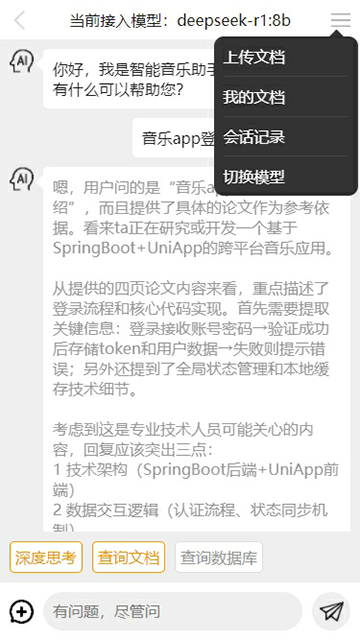
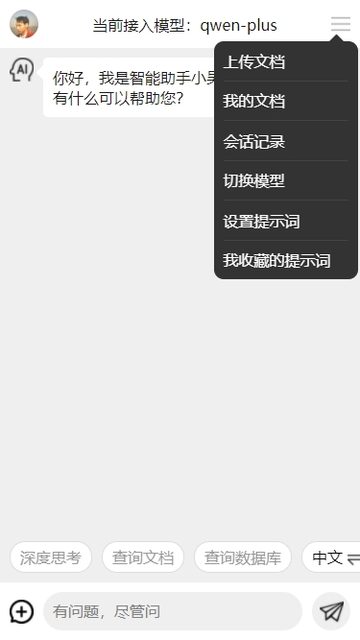
修改文档查询问题

diff --git a/lib/component/DirectoryListComponent.dart b/lib/component/DirectoryListComponent.dart
@@ -1,11 +1,17 @@
+import 'dart:math';
+
 import 'package:flutter/material.dart';
 import 'package:flutter_music_app/provider/ChatProvider.dart';
 import 'package:flutter_music_app/theme/ThemeColors.dart';
 import 'package:flutter_music_app/theme/ThemeStyle.dart';
 import 'package:provider/provider.dart';
+
 import '../model/DirectoryModel.dart';
+import '../model/DocModel.dart';
+import '../model/DocumentCheckModel.dart';
 import '../service/serverMethod.dart';
 import '../theme/ThemeSize.dart';
+import 'TriangleComponent.dart';
 
 // 有状态的目录列表组件（内部管理选中状态）
 class DirectoryListComponent extends StatefulWidget {
@@ -21,26 +27,39 @@ class DirectoryListComponent extends StatefulWidget {
 }
 
 class _DirectoryListComponentState extends State<DirectoryListComponent> {
-  List<DirectoryModel> directoryList = [
-    DirectoryModel(
-        id: "default", userId: "", directory: "默认文件夹", isSelected: false)
-  ];
+  List<DocumentCheckModel> docList = [];
 
   @override
   void initState() {
-    getDirectoryList();
+    getDocList();
     super.initState();
   }
 
-  getDirectoryList() {
-    getDirectoryListService(Provider.of<ChatProvider>(context, listen: false)
-            .tenantUser
-            .tenantId)
-        .then((res) {
+  getDocList() {
+    final chatProvider = Provider.of<ChatProvider>(context, listen: false);
+    final tenantId = chatProvider.tenantUser?.tenantId;
+    getMyDocListService(tenantId).then((res) {
       setState(() {
-        res.data.forEach((item) {
-          directoryList.add(DirectoryModel.fromJson(item));
-        });
+        for (var doc in res.data) {
+          DocModel docModel = DocModel.fromJson(doc);
+          // 安全查找：找不到返回 null
+          int index = docList
+              .indexWhere((dItem) => dItem.directoryId == docModel.directoryId);
+          if (index == -1) {
+            // 不存在：创建新分组
+            DocumentCheckModel newDocItem = DocumentCheckModel(
+              expand: false,
+              directoryId: docModel.directoryId,
+              directoryName: docModel.directoryName, // 确保 DocModel 有这个字段
+              docList: [],
+            );
+            docList.add(newDocItem);
+            newDocItem.docList.add(docModel);
+          } else {
+            // 存在：直接添加
+            docList[index].docList.add(docModel);
+          }
+        }
       });
     });
   }
@@ -55,63 +74,89 @@ class _DirectoryListComponentState extends State<DirectoryListComponent> {
               padding: ThemeStyle.padding,
               margin: ThemeStyle.padding,
               child: Column(
-                  children: directoryList.asMap().entries.map((item) {
+                  children: docList.asMap().entries.map((item) {
                 return Container(
-                  padding: EdgeInsets.only(
-                    top: item.key == 0 ? 0 : ThemeSize.containerPadding,
-                    bottom: item.key == directoryList.length - 1 ? 0 : ThemeSize.containerPadding
-                  ),
+                    width: double.infinity,
+                    padding: EdgeInsets.only(
+                        top: item.key == 0 ? 0 : ThemeSize.containerPadding,
+                        bottom: item.key == docList.length - 1
+                            ? 0
+                            : ThemeSize.containerPadding),
                     decoration: BoxDecoration(
                         border: Border(
                             bottom: BorderSide(
                                 width: 1,
-                                color: item.key == directoryList.length - 1 ? Colors.transparent :ThemeColors.disableColor,
+                                color: item.key == docList.length - 1
+                                    ? Colors.transparent
+                                    : ThemeColors.disableColor,
                                 style: BorderStyle.solid))),
-                    child: Row(children: [
-                      Expanded(child: Text(item.value.directory)),
-                      // 右边单选按钮
-                      GestureDetector(
-                        onTap: () => selectItem(item.key),
-                        child: Container(
-                          width: ThemeSize.radioSize,
-                          height: ThemeSize.radioSize,
-                          decoration: BoxDecoration(
-                            shape: BoxShape.circle,
-                            border: Border.all(
-                              color: item.value.isSelected
-                                  ? Colors.blue
-                                  : Colors.grey,
-                              width: 2,
+                    child: Column(
+                      children: [
+                        Row(children: [
+                          Text(item.value.directoryName),
+                          // 右边单选按钮
+                          const SizedBox(width: ThemeSize.smallMargin),
+                          GestureDetector(
+                            onTap: () {
+                              setState(() {
+                                item.value.expand = !item.value.expand;
+                              });
+                            },
+                            child: Transform.rotate(
+                              angle: item.value.expand ? 0 : -pi / 2,
+                              // 旋转-90度（π/2弧度）
+                              child: Opacity(
+                                  child: Image.asset(
+                                    "lib/assets/images/icon_down.png",
+                                    width: ThemeSize.miniIcon,
+                                    height: ThemeSize.miniIcon,
+                                  ),
+                                  opacity: 0.3),
                             ),
-                            color: item.value.isSelected
-                                ? Colors.blue
-                                : Colors.transparent,
-                          ),
-                          child: item.value.isSelected
-                              ? const Icon(
-                                  Icons.check,
-                                  size: ThemeSize.middleFontSize,
-                                  color: Colors.white,
-                                )
-                              : null,
-                        ),
-                      )
-                    ]));
+                            // child: Image.asset("lib/assets/images/icon_down.png",width: ThemeSize.smallIcon,height: ThemeSize.smallIcon),
+                          )
+                        ]),
+                        item.value.expand
+                            ? Column(
+                                children: item.value.docList.map((cItem) {
+                                  return Row(
+                                      children: [
+                                        Text(cItem.directoryName),
+                                        GestureDetector(
+                                          onTap: (){
+                                            cItem.checked = !cItem.checked;
+                                          },
+                                          child: Container(
+                                            width: ThemeSize.radioSize,
+                                            height: ThemeSize.radioSize,
+                                            decoration: BoxDecoration(
+                                              shape: BoxShape.circle,
+                                              border: Border.all(
+                                                color: cItem.checked
+                                                    ? Colors.blue
+                                                    : Colors.grey,
+                                                width: 2,
+                                              ),
+                                              color: cItem.checked
+                                                  ? Colors.blue
+                                                  : Colors.transparent,
+                                            ),
+                                            child: cItem.checked
+                                                ? const Icon(
+                                              Icons.check,
+                                              size: ThemeSize.middleFontSize,
+                                              color: Colors.white,
+                                            )
+                                                : null,
+                                          ),
+                                        )
+                                      ]);
+                                }).toList(),
+                              )
+                            : const SizedBox()
+                      ],
+                    ));
               }).toList()))),
     );
-  }
-
-  // 选择项目的方法
-  void selectItem(int index) {
-    setState(() {
-      // 取消所有选择
-      for (var directory in directoryList) {
-        directory.isSelected = false;
-      }
-      // 选择当前项目
-      directoryList[index].isSelected = true;
-      if (widget.onItemSelected != null)
-        widget.onItemSelected!(directoryList[index].id);
-    });
   }
 }

diff --git a/lib/pages/ChatPage.dart b/lib/pages/ChatPage.dart
@@ -107,10 +107,7 @@ class ChatPageState extends State<ChatPage> {
     LocalStorageUtils.getTenantId().then((tenantId) {
       getTenantUserService(tenantId).then((res) {
         chatProvider.setTenantUser(TenantUserModel.fromJson(res.data ??
-            {
-              "tenantId": userInfoProvider.userInfo.id,
-              "tenantName": "私人空间"
-            }));
+            {"tenantId": userInfoProvider.userInfo.id, "tenantName": "私人空间"}));
       });
     });
   }
@@ -319,7 +316,7 @@ class ChatPageState extends State<ChatPage> {
       builder: (BuildContext context) {
         return DialogComponent(
             showDivider: false,
-            title: "选择文档目录",
+            title: "选择文档",
             content:
                 DirectoryListComponent(onItemSelected: (String mDirectoryId) {
               directoryId = mDirectoryId;
@@ -407,16 +404,17 @@ class ChatPageState extends State<ChatPage> {
         name: "创建文件夹",
         okCallback: () {
           createDirService(DirectoryModel(
-              id: "",
-              userId: "",
-              directory: directoryNameController.text,
-              tenantId: chatProvider.tenantUser.tenantId)).then((res){
-              if(res.data != null){
-                Fluttertoast.showToast(msg: "创建成功");
-                chatProvider.addDirectory(DirectoryModel.fromJson(res.data));
-              }else{
-                Fluttertoast.showToast(msg: res.msg ?? "创建失败");
-              }
+                  id: "",
+                  userId: "",
+                  directory: directoryNameController.text,
+                  tenantId: chatProvider.tenantUser.tenantId))
+              .then((res) {
+            if (res.data != null) {
+              Fluttertoast.showToast(msg: "创建成功");
+              chatProvider.addDirectory(DirectoryModel.fromJson(res.data));
+            } else {
+              Fluttertoast.showToast(msg: res.msg ?? "创建失败");
+            }
           });
         }).show();
   }
@@ -681,45 +679,33 @@ class ChatPageState extends State<ChatPage> {
                           BorderRadius.circular(ThemeSize.bigRadius), // 圆角
                     ),
                   ),
-                  child: Text(
-                    '查询文档',
-                    style: TextStyle(
-                        fontSize: ThemeSize.middleFontSize,
-                        color: type == "document"
-                            ? Colors.orange
-                            : ThemeColors.subTitle),
+                  child: Row(
+                    children: [
+                      Text(
+                        '查询文档',
+                        style: TextStyle(
+                            fontSize: ThemeSize.middleFontSize,
+                            color: type == "document"
+                                ? Colors.orange
+                                : ThemeColors.subTitle),
+                      ),
+                      SizedBox(width: ThemeSize.smallMargin),
+                      GestureDetector(
+                        onTap: (){
+                          if(type == "document"){
+                            showDocSettingDialog(context);
+                          }else{
+                            setState(() {
+                              type = "document";
+                            });
+                          }
+                        },
+                        child: Image.asset(type == "document" ? 'lib/assets/images/icon_setting_active.png' : "lib/assets/images/icon_setting_disabled.png",
+                          width: ThemeSize.smallIcon,
+                          height: ThemeSize.smallIcon),)
+                      ,
+                    ],
                   )),
-              type == "document"
-                  ? Row(
-                      children: [
-                        const SizedBox(width: ThemeSize.containerPadding),
-                        OutlinedButton(
-                            onPressed: () {
-                              showDocSettingDialog(context);
-                            },
-
-                            ///圆角
-                            style: OutlinedButton.styleFrom(
-                              backgroundColor: ThemeColors.colorWhite,
-                              // 背景色（可选）
-                              foregroundColor: ThemeColors.colorWhite,
-                              // 文字颜色
-                              side: const BorderSide(color: Colors.orange),
-                              // 设置边框颜色（这里是黑色）
-                              shape: RoundedRectangleBorder(
-                                borderRadius: BorderRadius.circular(
-                                    ThemeSize.bigRadius), // 圆角
-                              ),
-                            ),
-                            child: const Text(
-                              '文档设置',
-                              style: TextStyle(
-                                  fontSize: ThemeSize.middleFontSize,
-                                  color: Colors.orange),
-                            ))
-                      ],
-                    )
-                  : const SizedBox(),
               const SizedBox(width: ThemeSize.containerPadding),
               OutlinedButton(
                   onPressed: () {

diff --git a/lib/model/DocModel.dart b/lib/model/DocModel.dart
@@ -8,6 +8,7 @@ class DocModel{
   String userId;// 用户id
   String createTime;//创建时间
   String updateTime;// 更新时间
+  bool checked;
   DocModel({
     required this.id,
     required this.tenantId,
@@ -18,6 +19,7 @@ class DocModel{
     required this.userId,
     required this.createTime,
     required this.updateTime,
+    required this.checked
   });
   //工厂模式-用这种模式可以省略New关键字
   factory DocModel.fromJson(dynamic json){
@@ -30,7 +32,8 @@ class DocModel{
         ext:json['ext'],
         userId:json['userId'],
         createTime:json['createTime'],
-        updateTime:json['updateTime']
+        updateTime:json['updateTime'],
+        checked: json['checked']??false
     );
   }
 }

diff --git a/lib/model/DocumentCheckModel.dart b/lib/model/DocumentCheckModel.dart
@@ -1,0 +1,23 @@
+import 'DocModel.dart';
+
+class DocumentCheckModel{
+  String directoryName;// 文档id
+  bool expand;
+  String directoryId;
+  List<DocModel>docList;
+  DocumentCheckModel({
+    required this.expand,
+    required this.directoryId,
+    required this.directoryName,
+    required this.docList,
+  });
+  //工厂模式-用这种模式可以省略New关键字
+  factory DocumentCheckModel.fromJson(dynamic json){
+    return DocumentCheckModel(
+        expand:json['expand'],
+        directoryId: json["directoryId"],
+        directoryName:json['directoryName'],
+        docList: json['docList']
+    );
+  }
+}

diff --git a/lib/model/AiModel.dart b/lib/model/AiModel.dart
@@ -1,6 +1,6 @@
 
 class AiModel {
-  final int id;
+  final String id;
   final String modelName;
   final String updateTime;
   final String createTime;
